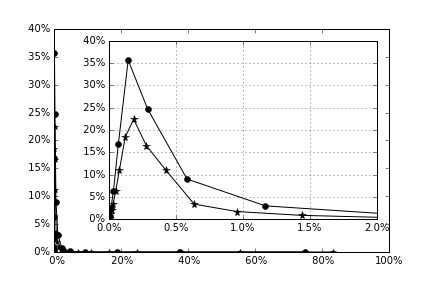
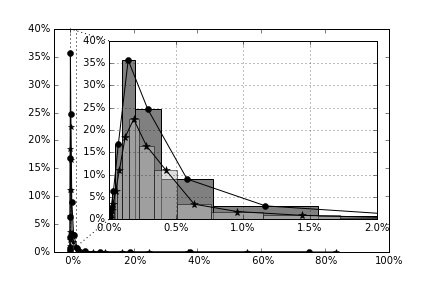
5 graph

diff --git a/3.py b/3.py
@@ -64,7 +64,8 @@ ax.set_yticklabels(['{:3.0f}%'.format(x) for x in y_vals])
 
 x_vals = ax.get_xticks()
 ax.set_xticklabels(['{:3.0f}%'.format(x) for x in x_vals])
-
+plt.xlabel("Относительная цена автомобиля")
+plt.ylabel("Доля автомобилей с данной ценой")
 #ax.set_xticklabels(['' for x in vals[1:-3]])
 #plt.show()
 
@@ -76,6 +77,8 @@ ax2.plot(auto1.cena_relative, auto1.num_relative, marker = "*", color="k" , ms =
 
 ax2.set_xlim(0,2)
 ax2.set_ylim(0,40)
+ax2.grid(b="on",axis ="both", linestyle='dashed', linewidth = 1, color = "grey")
+
 bar2 = ax2.bar(left = auto2.cena_relative_left, width = auto2.cena_relative_weight, height = auto2.num_relative, color = (0.5,0.5,0.5))
 bar1 = ax2.bar(left = auto1.cena_relative_left, width = auto1.cena_relative_weight, height = auto1.num_relative,color = (0.75,0.75,0.75), alpha=0.5)
 
@@ -89,16 +92,16 @@ ax2.set_xticklabels(['{:3.1f}%'.format(x) for x in x_vals])
 #ax2.set_xticks([0]+auto1.cena_relative_right)
 #ax2.margins(x=0.5)
 
-#mark_inset(ax,ax2,loc1 = 2, loc2 = 3, fc = "none")
+#mark_inset(ax,ax2,loc1 = 2, loc2 = 3, fc = "none", linestyle = ":")
 ax.grid(b="off",axis ="both")
 #ax.semilogx()
 #plt.xscale("log")
-ax2.grid(b="on",axis ="both")
+
 #.xscale("log")
 
 
-plt.savefig("2.jpg")
-plt.savefig("2.png")
+plt.savefig("5.jpg")
+plt.savefig("5.png")
 #%%
 #plt.figure()
 #plt.bar(np.arange(10), height = np.arange(10))
